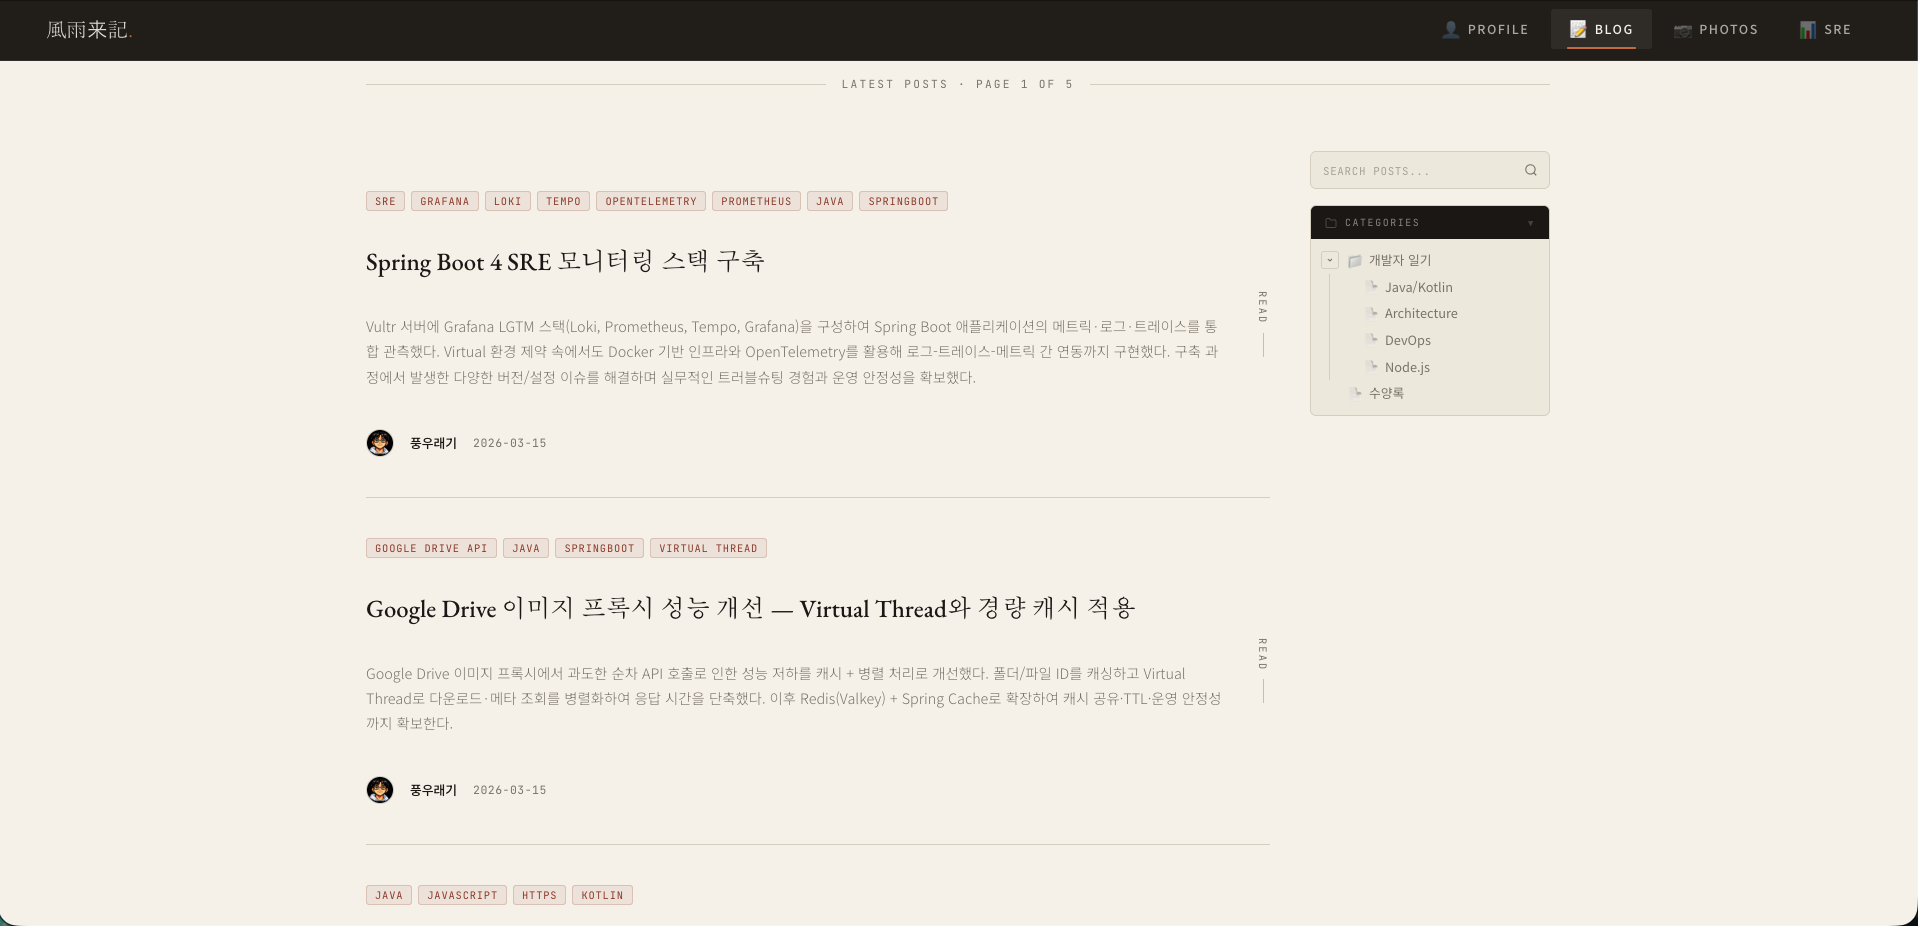
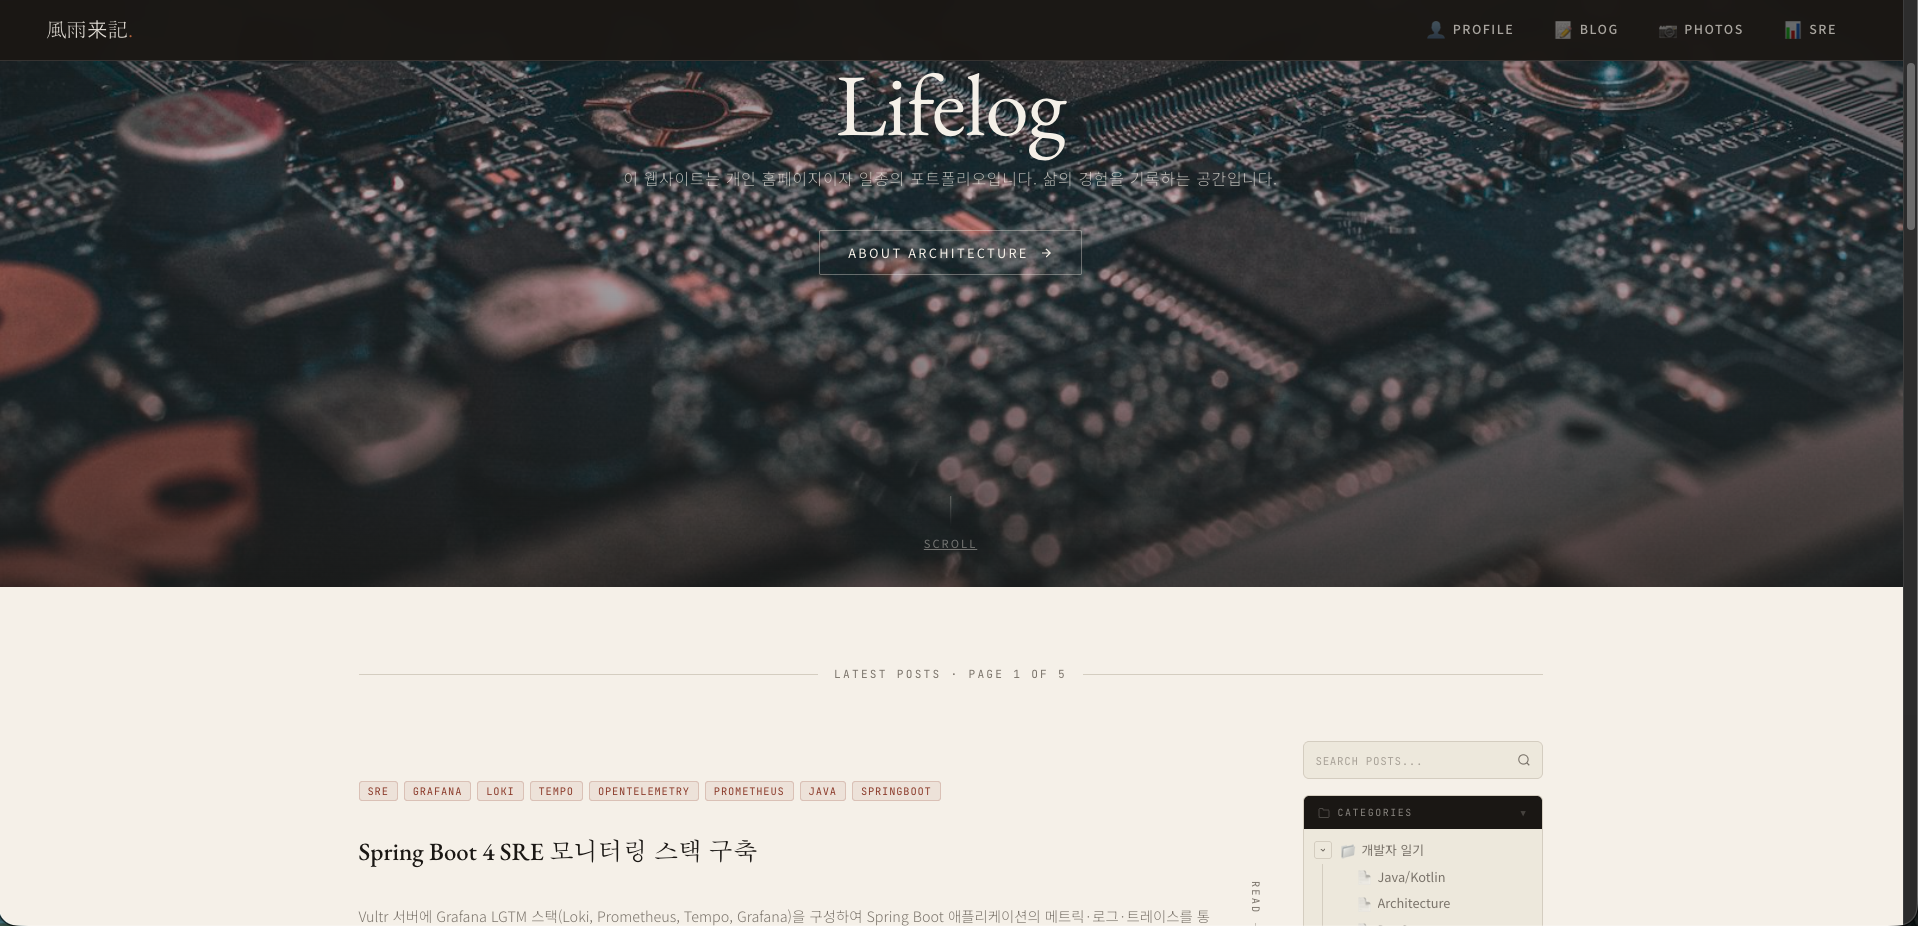
DB 스키마 탭 시인성 개선 및 스크린샷 업데이트

diff --git a/web/src/main/resources/static/css/architecture.css b/web/src/main/resources/static/css/architecture.css
@@ -1000,35 +1000,48 @@
    ──────────────────────────────────────────────────────────────── */
 .arch-db-tabs {
     display: flex;
-    gap: 0;
+    gap: 4px;
     border-bottom: 2px solid var(--border);
     margin-bottom: 32px;
     overflow-x: auto;
+    padding: 0 2px;
+    background: rgba(0,0,0,0.03);
+    border-radius: var(--r-lg) var(--r-lg) 0 0;
+    padding-top: 10px;
+    padding-left: 10px;
 }
 
 .arch-db-tab {
     display: flex;
     align-items: center;
     gap: 7px;
-    padding: 10px 20px;
+    padding: 9px 20px 10px;
     font-family: 'JetBrains Mono', monospace;
     font-size: 0.78rem;
     font-weight: 500;
     color: var(--muted);
     cursor: pointer;
-    border: none;
-    background: none;
-    border-bottom: 2px solid transparent;
+    background: rgba(0,0,0,0.04);
+    border: 1.5px solid var(--border);
+    border-bottom: 2px solid var(--border);
+    border-radius: 6px 6px 0 0;
     margin-bottom: -2px;
     white-space: nowrap;
-    transition: color var(--t);
+    transition: color var(--t), background var(--t), border-color var(--t);
 }
 
-.arch-db-tab:hover { color: var(--ink); }
+.arch-db-tab:hover {
+    color: var(--ink);
+    background: rgba(0,0,0,0.01);
+    border-color: color-mix(in srgb, var(--border) 70%, var(--ink) 30%);
+}
 
 .arch-db-tab.active {
     color: var(--accent);
-    border-bottom-color: var(--accent);
+    background: var(--paper, #fff);
+    border-color: var(--border);
+    border-bottom-color: var(--paper, #fff);
+    font-weight: 700;
 }
 
 .arch-db-tab-dot {
